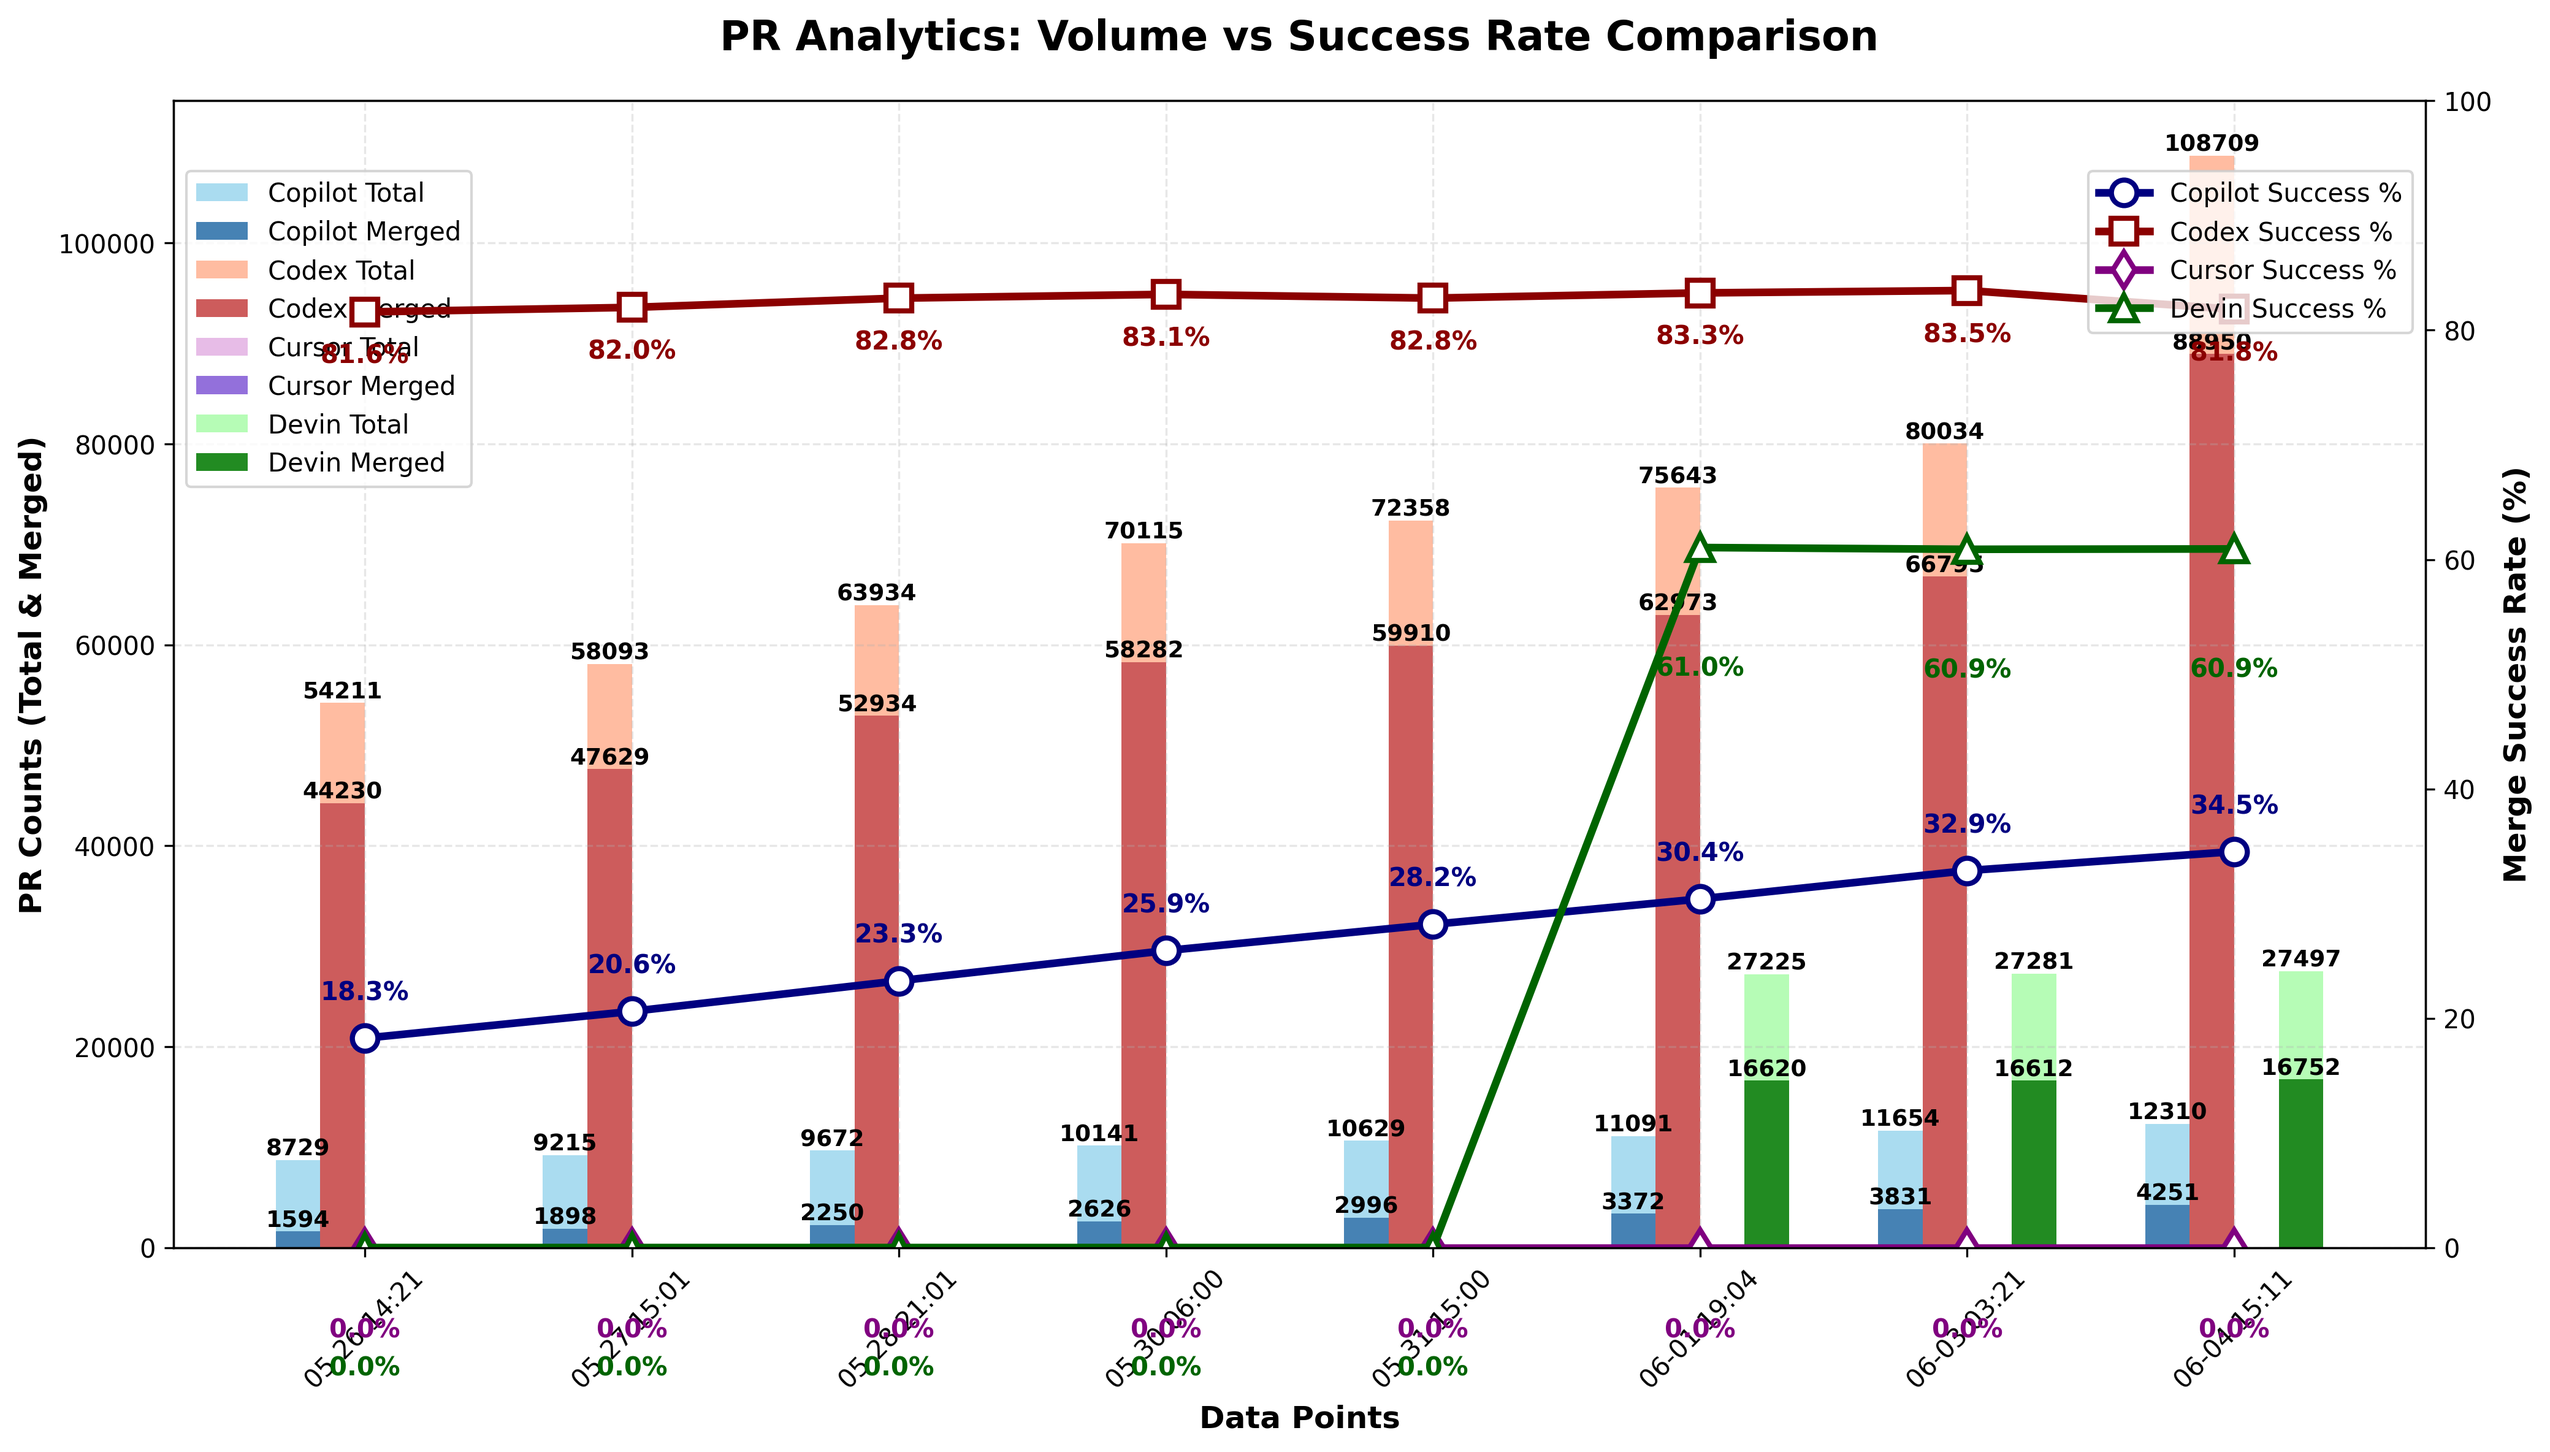
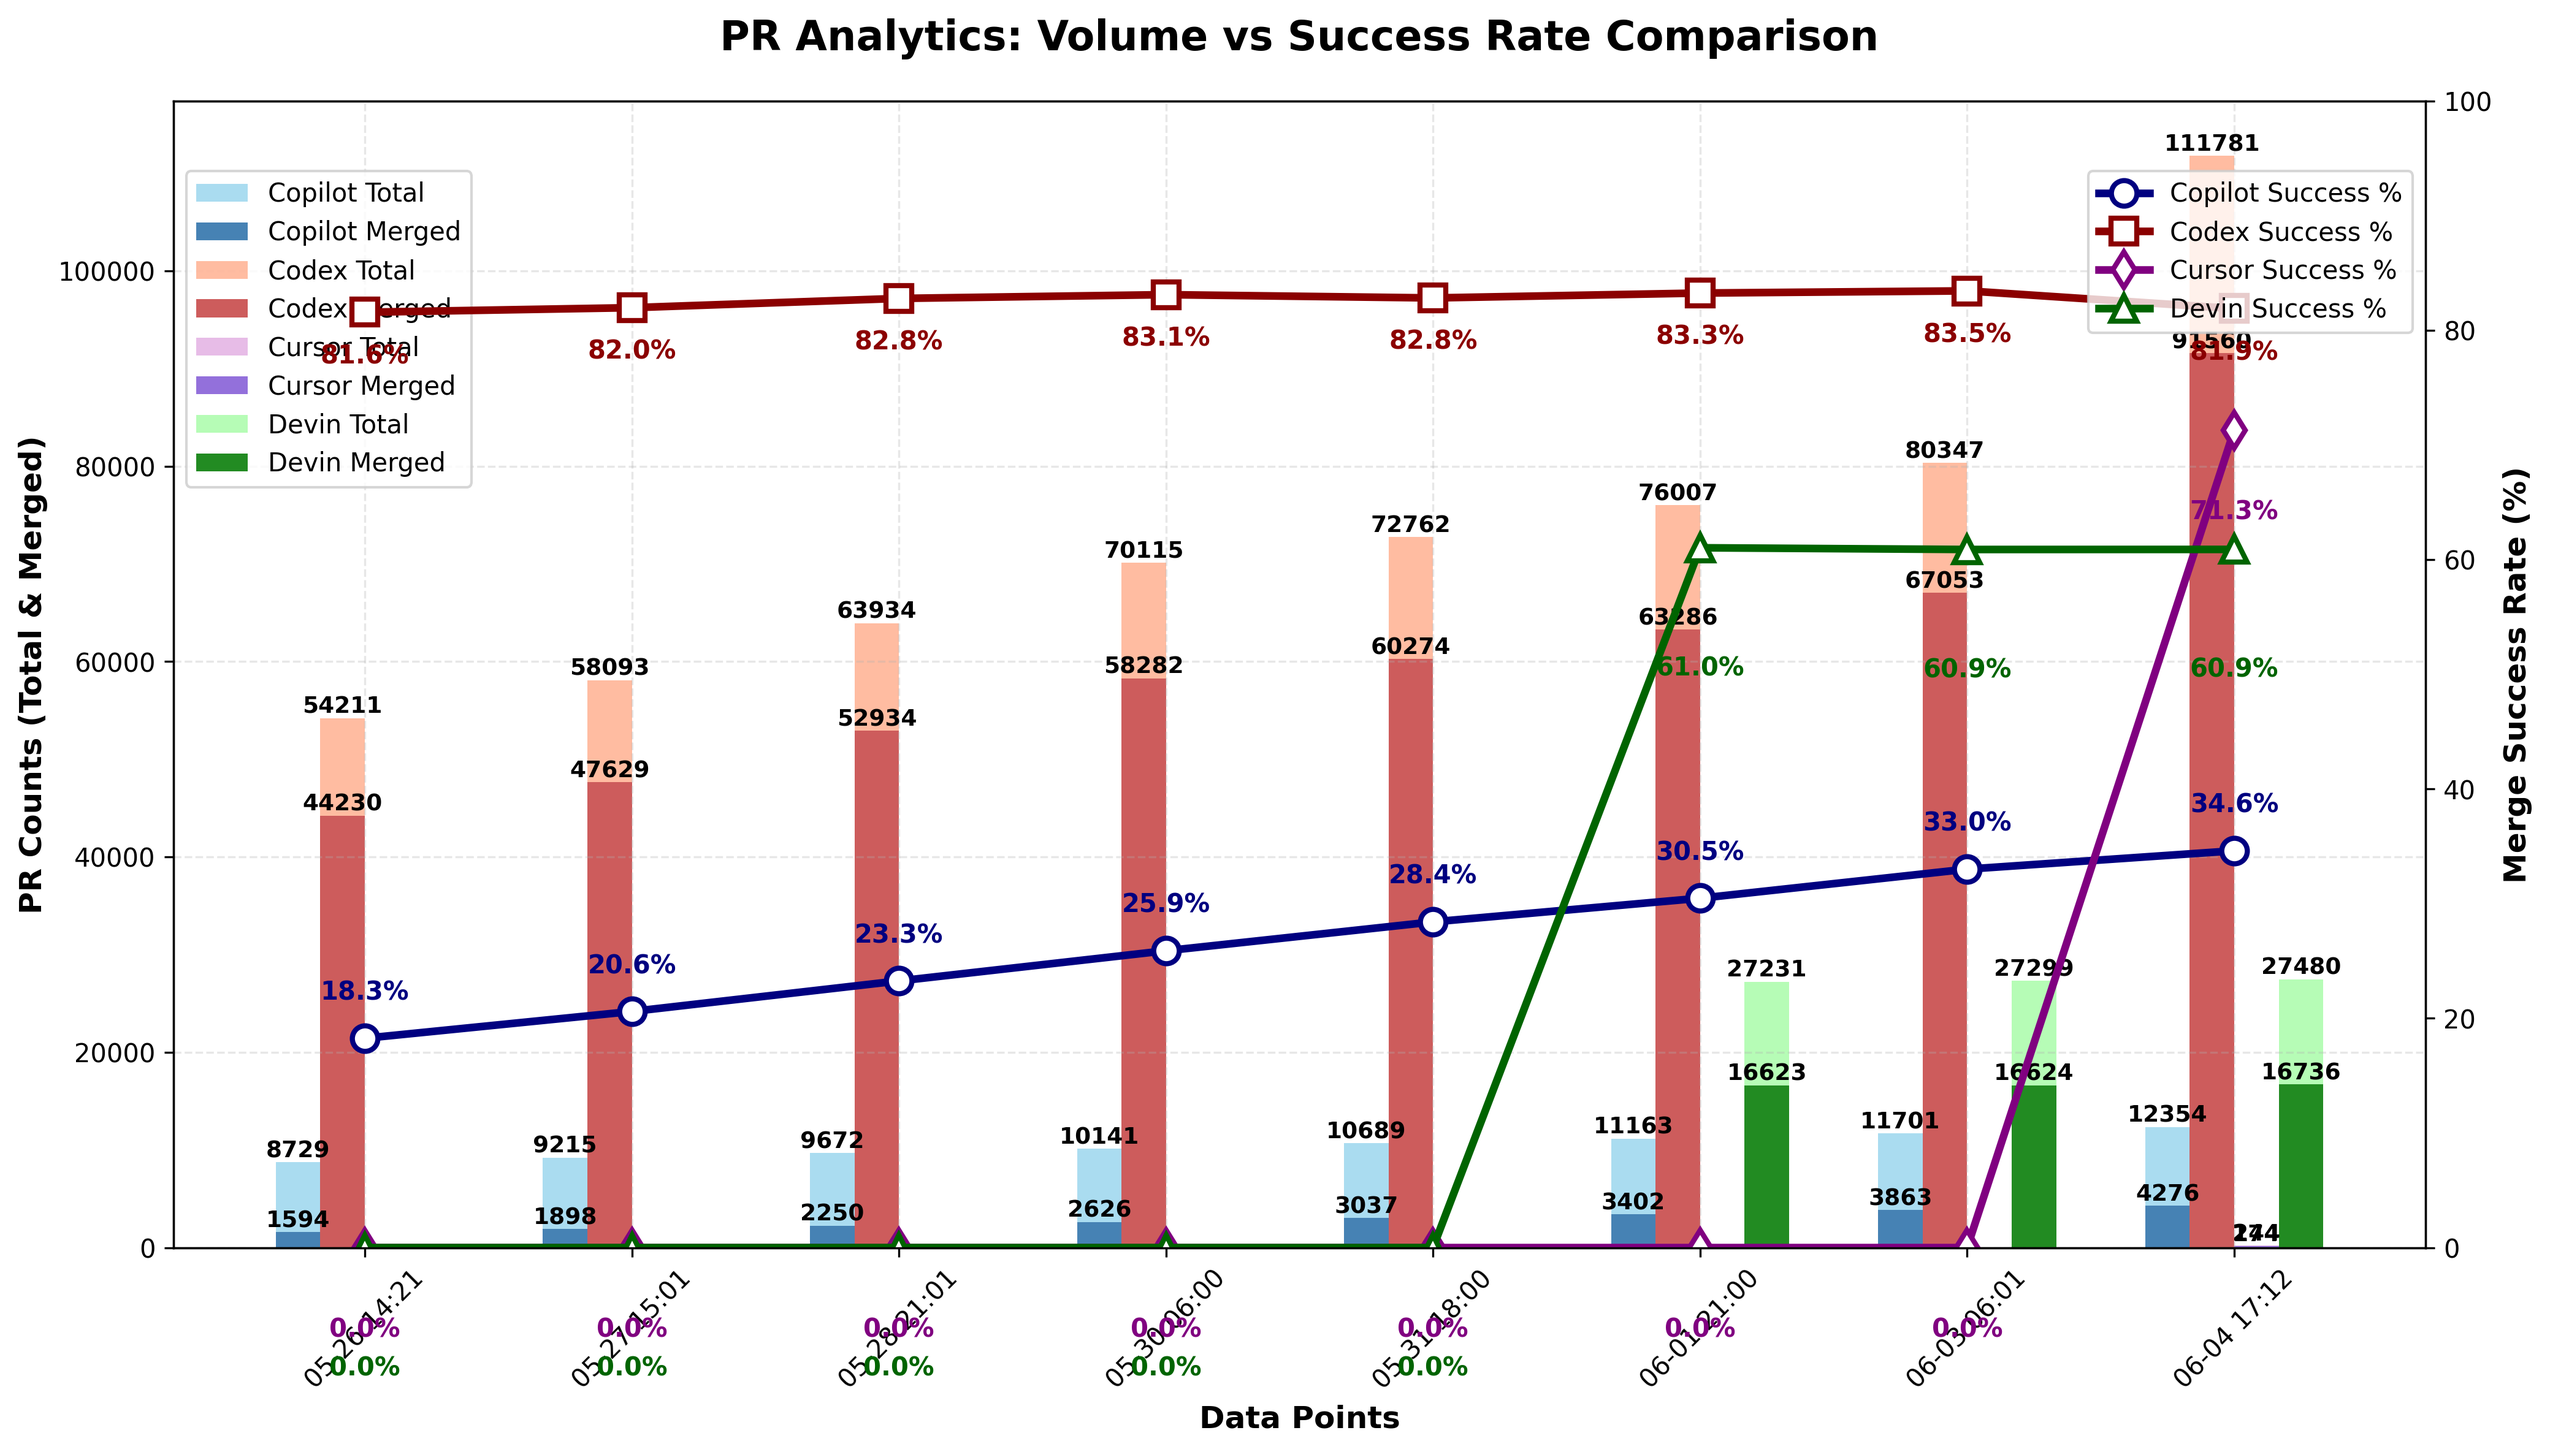
chore: update PR‑approval chart

diff --git a/docs/index.html b/docs/index.html
@@ -48,34 +48,34 @@
                 <tbody>
                     <tr>
                         <td>Copilot</td>
-                        <td>12,310</td>
-                        <td>4,251</td>
-                        <td>34.53%</td>
+                        <td>12,354</td>
+                        <td>4,276</td>
+                        <td>34.61%</td>
                     </tr>
                     <tr>
                         <td>Codex</td>
-                        <td>108,709</td>
-                        <td>88,950</td>
-                        <td>81.82%</td>
+                        <td>111,781</td>
+                        <td>91,560</td>
+                        <td>81.91%</td>
                     </tr>
                     <tr>
                         <td>Cursor</td>
-                        <td>0</td>
-                        <td>0</td>
-                        <td>0.00%</td>
+                        <td>244</td>
+                        <td>174</td>
+                        <td>71.31%</td>
                     </tr>
                     <tr>
                         <td>Devin</td>
-                        <td>27,497</td>
-                        <td>16,752</td>
-                        <td>60.92%</td>
+                        <td>27,480</td>
+                        <td>16,736</td>
+                        <td>60.90%</td>
                     </tr>
                 </tbody>
             </table>
         </section>
 
         <footer>
-            <p>Last updated: <span id="last-updated">June 04, 2025 17:07 UTC</span></p>
+            <p>Last updated: <span id="last-updated">June 04, 2025 17:12 UTC</span></p>
             <p><a href="https://github.com/aavetis/ai-pr-watcher">View on GitHub</a></p>
         </footer>
     </div>

diff --git a/README.md b/README.md
@@ -23,7 +23,7 @@ Explore the GitHub search queries used:
 
 | Project | Total PRs | Merged PRs | Merge Rate |
 | ------- | --------- | ---------- | ---------- |
-| Copilot | 12,310 | 4,251 | 34.53% |
-| Codex   | 108,709 | 88,950 | 81.82% |
-| Cursor  | 0 | 0 | 0.00% |
-| Devin   | 27,497 | 16,752 | 60.92% |
+| Copilot | 12,354 | 4,276 | 34.61% |
+| Codex   | 111,781 | 91,560 | 81.91% |
+| Cursor  | 244 | 174 | 71.31% |
+| Devin   | 27,480 | 16,736 | 60.90% |
